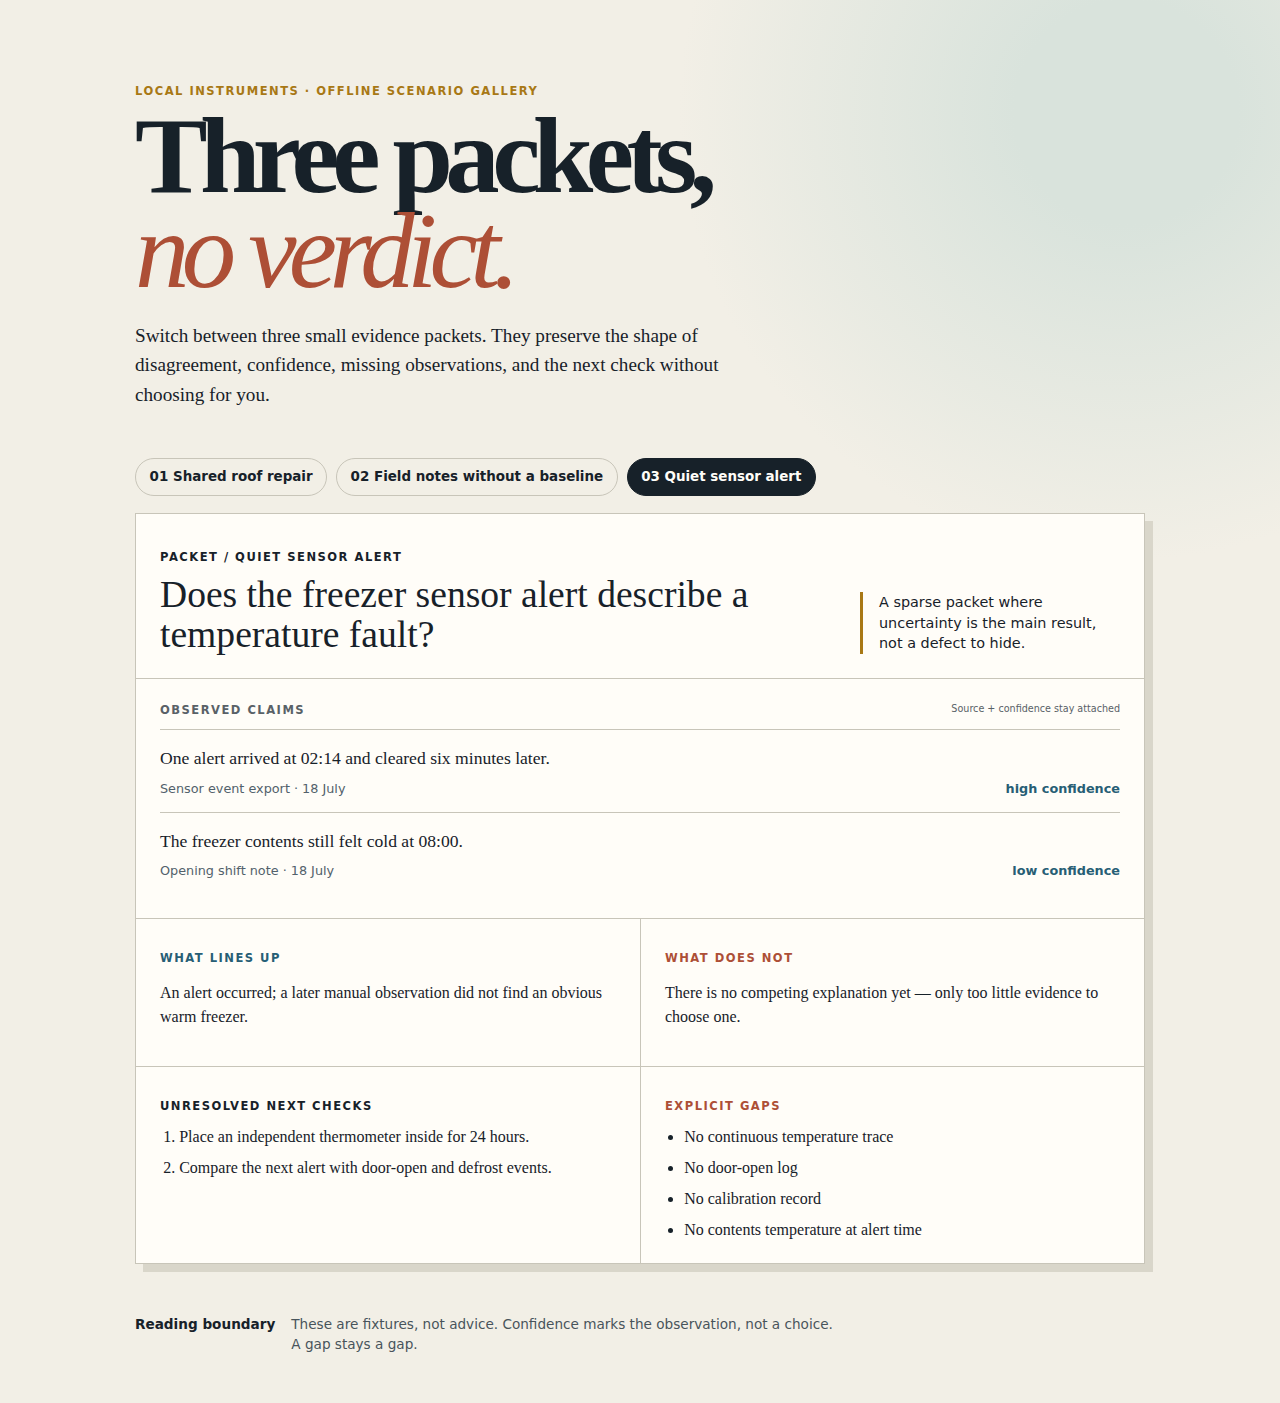
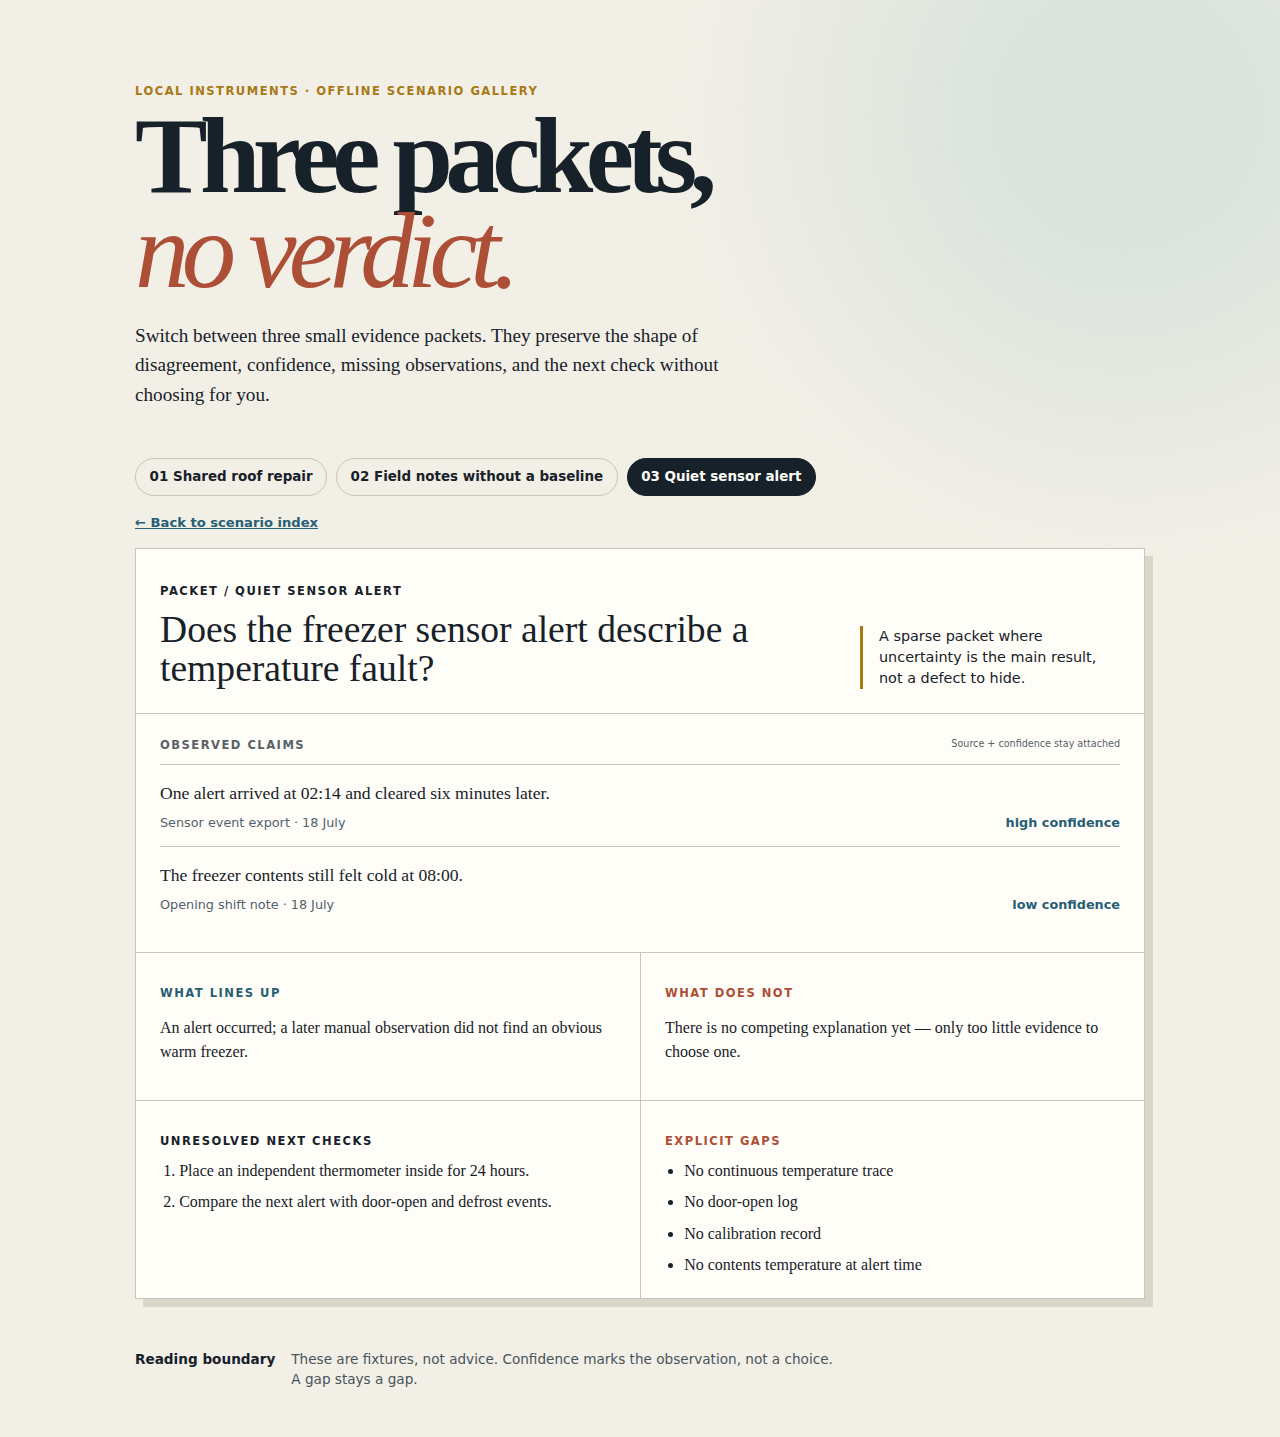
Add uncertainty packet scenario index

diff --git a/uncertainty-packet-gallery/style.css b/uncertainty-packet-gallery/style.css
@@ -1,1 +1,1 @@
-:root { color-scheme: light; --ink:#172129; --paper:#f2efe6; --surface:#fffdf8; --line:#c8c5b9; --rust:#ad4f36; --blue:#275e75; --gold:#a87815; font-family: ui-serif, Georgia, serif; background:var(--paper); color:var(--ink); } * { box-sizing:border-box; } body { margin:0; background:radial-gradient(circle at 88% 8%, #d9e3dc 0 7rem, transparent 28rem), var(--paper); } main { max-width:1050px; margin:auto; padding:4.5rem 1.25rem 3rem; } header { max-width:760px; margin-bottom:3rem; } .eyebrow,.kicker,.section-label { font:700 .72rem ui-sans-serif,system-ui,sans-serif; letter-spacing:.13em; text-transform:uppercase; } .eyebrow { color:var(--gold); } h1 { font-size:clamp(3.1rem,9vw,6.8rem); line-height:.87; letter-spacing:-.07em; margin:.45rem 0 1.4rem; font-weight:600; } h1 em { color:var(--rust); font-weight:400; } .lede { font-size:1.2rem; line-height:1.55; max-width:650px; } #chooser { display:flex; gap:.55rem; flex-wrap:wrap; margin-bottom:1.1rem; } button { appearance:none; background:transparent; color:var(--ink); border:1px solid var(--line); border-radius:99px; padding:.65rem .85rem; font:600 .84rem ui-sans-serif,system-ui,sans-serif; cursor:pointer; } button:hover,button.selected { background:var(--ink); color:var(--surface); border-color:var(--ink); } #packet { border:1px solid var(--line); background:var(--surface); box-shadow:8px 8px 0 #d9d6ca; } .packet-head { padding:1.5rem; display:grid; grid-template-columns:1fr 260px; gap:1rem; border-bottom:1px solid var(--line); } h2 { font-size:clamp(1.55rem,3vw,2.35rem); line-height:1.05; margin:.45rem 0 0; font-weight:500; } .status { margin:0; align-self:end; padding-left:1rem; border-left:3px solid var(--gold); font: .9rem/1.45 ui-sans-serif,system-ui,sans-serif; } .ledger { padding:1.5rem; } .section-label { display:flex; justify-content:space-between; color:#596167; margin-bottom:.75rem; } .section-label small { font-weight:400; letter-spacing:0; text-transform:none; } .claim { padding:1rem 0; border-top:1px solid var(--line); } .claim p { margin:0 0 .6rem; font-size:1.1rem; line-height:1.4; } .claim div { display:flex; justify-content:space-between; gap:1rem; font:.8rem ui-sans-serif,system-ui,sans-serif; color:#52616b; } .claim b { color:var(--blue); white-space:nowrap; } .claim.conflict b { color:var(--rust); } .split,.lower { display:grid; grid-template-columns:1fr 1fr; } .split article,.lower article { margin:0; padding:1.3rem 1.5rem; border-top:1px solid var(--line); } .split article+article,.lower article+article { border-left:1px solid var(--line); } .split p:not(.kicker),.lower li { line-height:1.5; } .agreement .kicker { color:var(--blue); }.conflict .kicker,.gaps .kicker { color:var(--rust); } ol,ul { margin:.6rem 0 0; padding-left:1.2rem; } li+li { margin-top:.45rem; } footer { max-width:700px; display:flex; gap:1rem; margin-top:3.2rem; font:.85rem/1.45 ui-sans-serif,system-ui,sans-serif; color:#48545b; } footer strong { color:var(--ink); white-space:nowrap; } @media (max-width:650px) { main{padding-top:2.5rem}.packet-head,.split,.lower{grid-template-columns:1fr}.status{border-left:0;border-top:3px solid var(--gold);padding:1rem 0 0}.split article+article,.lower article+article{border-left:0}footer{display:block}footer span{display:block;margin-top:.3rem}.claim div{display:block}.claim b{display:block;margin-top:.25rem} }
+:root { color-scheme: light; --ink:#172129; --paper:#f2efe6; --surface:#fffdf8; --line:#c8c5b9; --rust:#ad4f36; --blue:#275e75; --gold:#a87815; font-family: ui-serif, Georgia, serif; background:var(--paper); color:var(--ink); } * { box-sizing:border-box; } body { margin:0; background:radial-gradient(circle at 88% 8%, #d9e3dc 0 7rem, transparent 28rem), var(--paper); } main { max-width:1050px; margin:auto; padding:4.5rem 1.25rem 3rem; } header { max-width:760px; margin-bottom:3rem; } .eyebrow,.kicker,.section-label { font:700 .72rem ui-sans-serif,system-ui,sans-serif; letter-spacing:.13em; text-transform:uppercase; } .eyebrow { color:var(--gold); } h1 { font-size:clamp(3.1rem,9vw,6.8rem); line-height:.87; letter-spacing:-.07em; margin:.45rem 0 1.4rem; font-weight:600; } h1 em { color:var(--rust); font-weight:400; } .lede { font-size:1.2rem; line-height:1.55; max-width:650px; } #chooser { display:flex; gap:.55rem; flex-wrap:wrap; margin-bottom:1.1rem; } button { appearance:none; background:transparent; color:var(--ink); border:1px solid var(--line); border-radius:99px; padding:.65rem .85rem; font:600 .84rem ui-sans-serif,system-ui,sans-serif; cursor:pointer; } button:hover,button.selected { background:var(--ink); color:var(--surface); border-color:var(--ink); } #index-return { display:inline-block; margin:-.15rem 0 1.1rem; color:var(--blue); font:600 .82rem ui-sans-serif,system-ui,sans-serif; } #packet { border:1px solid var(--line); background:var(--surface); box-shadow:8px 8px 0 #d9d6ca; } .packet-head { padding:1.5rem; display:grid; grid-template-columns:1fr 260px; gap:1rem; border-bottom:1px solid var(--line); } h2 { font-size:clamp(1.55rem,3vw,2.35rem); line-height:1.05; margin:.45rem 0 0; font-weight:500; } .status { margin:0; align-self:end; padding-left:1rem; border-left:3px solid var(--gold); font: .9rem/1.45 ui-sans-serif,system-ui,sans-serif; } .ledger { padding:1.5rem; } .section-label { display:flex; justify-content:space-between; color:#596167; margin-bottom:.75rem; } .section-label small { font-weight:400; letter-spacing:0; text-transform:none; } .claim { padding:1rem 0; border-top:1px solid var(--line); } .claim p { margin:0 0 .6rem; font-size:1.1rem; line-height:1.4; } .claim div { display:flex; justify-content:space-between; gap:1rem; font:.8rem ui-sans-serif,system-ui,sans-serif; color:#52616b; } .claim b { color:var(--blue); white-space:nowrap; } .claim.conflict b { color:var(--rust); } .split,.lower { display:grid; grid-template-columns:1fr 1fr; } .split article,.lower article { margin:0; padding:1.3rem 1.5rem; border-top:1px solid var(--line); } .split article+article,.lower article+article { border-left:1px solid var(--line); } .split p:not(.kicker),.lower li { line-height:1.5; } .agreement .kicker { color:var(--blue); }.conflict .kicker,.gaps .kicker { color:var(--rust); } ol,ul { margin:.6rem 0 0; padding-left:1.2rem; } li+li { margin-top:.45rem; } footer { max-width:700px; display:flex; gap:1rem; margin-top:3.2rem; font:.85rem/1.45 ui-sans-serif,system-ui,sans-serif; color:#48545b; } footer strong { color:var(--ink); white-space:nowrap; } @media (max-width:650px) { main{padding-top:2.5rem}.packet-head,.split,.lower{grid-template-columns:1fr}.status{border-left:0;border-top:3px solid var(--gold);padding:1rem 0 0}.split article+article,.lower article+article{border-left:0}footer{display:block}footer span{display:block;margin-top:.3rem}.claim div{display:block}.claim b{display:block;margin-top:.25rem} }

diff --git a/uncertainty-packet-gallery/scenario-index.css b/uncertainty-packet-gallery/scenario-index.css
@@ -1,0 +1,1 @@
+#scenarios{display:grid;grid-template-columns:repeat(3,1fr);gap:1rem}.scenario{min-height:310px;border:1px solid var(--line);background:var(--surface);padding:1.5rem;display:flex;flex-direction:column;box-shadow:5px 5px 0 #d9d6ca}.scenario:nth-child(2){margin-top:2rem}.scenario:nth-child(3){margin-top:.7rem}.number{margin:0;color:var(--gold);font:700 .72rem ui-sans-serif,system-ui,sans-serif;letter-spacing:.12em;text-transform:uppercase}.scenario h2{font-size:1.7rem;line-height:1.05;margin:1rem 0 1.5rem}.scenario p:not(.number){font:.88rem/1.5 ui-sans-serif,system-ui,sans-serif;margin:.6rem 0}.scenario b{display:block;color:var(--blue);font-size:.67rem;letter-spacing:.12em;text-transform:uppercase}.scenario .gap b{color:var(--rust)}.scenario a{margin-top:auto;padding-top:1rem;color:var(--ink);font:700 .85rem ui-sans-serif,system-ui,sans-serif;text-decoration:none;border-top:1px solid var(--line)}.scenario a span{color:var(--rust);font-size:1.3rem;float:right}@media(max-width:750px){#scenarios{grid-template-columns:1fr}.scenario:nth-child(n){margin-top:0;min-height:auto}}

diff --git a/uncertainty-packet-gallery/scenario-index.html b/uncertainty-packet-gallery/scenario-index.html
@@ -1,0 +1,1 @@
+<!doctype html><html lang="en"><head><meta charset="utf-8"><meta name="viewport" content="width=device-width,initial-scale=1"><title>Choose a packet, not an answer</title><link rel="stylesheet" href="style.css"><link rel="stylesheet" href="scenario-index.css"></head><body><main><header><p class="eyebrow">Local Instruments · scenario index</p><h1>Choose a packet,<br><em>not an answer.</em></h1><p class="lede">Each drawer begins with a different unfinished question. The index names the boundary before you open it; the packet keeps the evidence, conflict, and next checks in view.</p></header><section id="scenarios" aria-label="Packet scenarios"></section><footer><strong>Boundary</strong><span>These are contrasting fixtures. An index can help you enter a record; it cannot decide what the record means.</span></footer></main><script src="fixtures.js"></script><script src="scenario-index.js"></script></body></html>

diff --git a/uncertainty-packet-gallery/scenario-index.js b/uncertainty-packet-gallery/scenario-index.js
@@ -1,0 +1,3 @@
+const esc=value=>String(value).replace(/[&<>"]/g,char=>({'&':'&amp;','<':'&lt;','>':'&gt;','"':'&quot;'}[char]));
+const boundary=item=>item.status.replace(/^A packet /,'').replace(/^A sparse packet /,'');
+document.querySelector('#scenarios').innerHTML=window.UNCERTAINTY_PACKET_FIXTURES.map((item,index)=>`<article class="scenario"><p class="number">0${index+1} / ${esc(item.label)}</p><h2>${esc(item.question)}</h2><p class="boundary"><b>Evidence boundary</b>${esc(boundary(item))}</p><p class="gap"><b>Unresolved gap</b>${esc(item.gaps[0])}</p><a href="index.html#${encodeURIComponent(item.id)}">Open this packet <span>→</span></a></article>`).join('');

diff --git a/uncertainty-packet-gallery/index.html b/uncertainty-packet-gallery/index.html
@@ -14,6 +14,7 @@
       <p class="lede">Switch between three small evidence packets. They preserve the shape of disagreement, confidence, missing observations, and the next check without choosing for you.</p>
     </header>
     <nav id="chooser" aria-label="Packet scenarios"></nav>
+    <a id="index-return" href="scenario-index.html">← Back to scenario index</a>
     <section id="packet" aria-live="polite"></section>
     <footer><strong>Reading boundary</strong><span>These are fixtures, not advice. Confidence marks the observation, not a choice. A gap stays a gap.</span></footer>
   </main>

diff --git a/uncertainty-packet-gallery/app.js b/uncertainty-packet-gallery/app.js
@@ -22,4 +22,6 @@ fixtures.forEach((item, index) => {
   button.type = 'button'; button.dataset.id = item.id; button.textContent = `${String(index + 1).padStart(2, '0')} ${item.label}`;
   button.addEventListener('click', () => render(item)); chooser.append(button);
 });
-render(fixtures[0]);
+function renderFromHash() { const id = decodeURIComponent(location.hash.slice(1)); render(fixtures.find(item => item.id === id) || fixtures[0]); }
+window.addEventListener('hashchange', renderFromHash);
+renderFromHash();

diff --git a/uncertainty-packet-gallery/README.md b/uncertainty-packet-gallery/README.md
@@ -2,4 +2,4 @@
 
 A dependency-free offline gallery of three contrasting evidence packets; it served Local Instruments. Open `index.html` directly, switch packets, and compare what lines up, what conflicts, what is still missing, and the next check without receiving a verdict.
 
-Run `node verify-fixtures.mjs` for deterministic fixture validation and `node browser-check.cjs` for the browser check. The latter uses the adjacent worksheet's local Playwright dependency, opens the gallery via `file://` with networking disabled, and writes `proof.png`.
+Open `scenario-index.html` to choose a packet by its question, evidence boundary, and an unresolved gap; each card opens the matching gallery packet and its return route. Run `node verify-fixtures.mjs` for deterministic fixture validation, `node browser-check.cjs` for the gallery browser check, and `node scenario-index-check.cjs` for the index links and desktop/narrow visual check. The browser checks use the adjacent worksheet's local Playwright dependency, open via `file://` with networking disabled, and write proof images.
